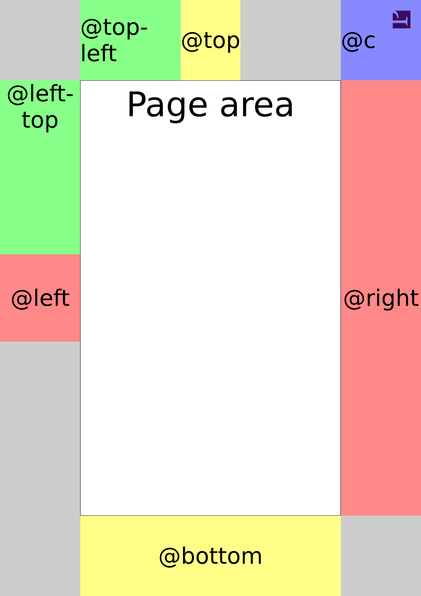
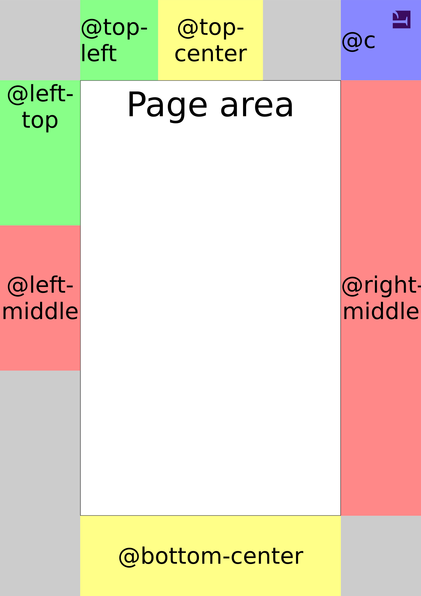
There is no @top, @bottom, @left and @right - migrating long due fixes.

diff --git a/docs/assets/samples/marginboxes.html b/docs/assets/samples/marginboxes.html
@@ -10,20 +10,20 @@
     background-color: #ccc;
     font-size: 32pt;
     font-family: sans-serif;
-    @top {
-        content: "@top";
+    @top-center {
+        content: "@top-center";
         background-color: #ff8;
     }
-    @bottom {
-        content: "@bottom";
+    @bottom-center {
+        content: "@bottom-center";
         background-color: #ff8;
     }
-    @left {
-        content: "@left";
+    @left-middle {
+        content: "@left-middle";
         background-color: #f88;
     }
-    @right {
-        content: "@right";
+    @right-middle {
+        content: "@right-middle";
         background-color: #f88;
     }
     @top-left {

diff --git a/docs/paged.md b/docs/paged.md
@@ -127,24 +127,13 @@ This figure shows the positions of some page regions placed in the page margin, 
 
 The [`@page`](css-at-rules.md#at-page) background is <span class="fig-marginboxes-lightgrey">grey</span> and the body's, i.e. the page area's background is <span class="fig-marginboxes-white">white</span>.
 
-The first four page-margin boxes, namely
-
--   `@top`,
--   `@bottom`,
--   `@left` and
--   `@right`
-
-are easy to understand and are shown in <span class="fig-marginboxes-yellow">yellow</span> and <span class="fig-marginboxes-red">red</span>.
-
-Each of these page-margin boxes has a synonym ending in `-center` or `-middle` - for instance `@top-center` is the same as `@top`, while `@left-middle` is the same as `@left`.
-
 You can place content in a page-margin box with the [`content`](css-props.md#prop-content) property.
 
 For example, you can print the current page number at the bottom of each page (see [Generated Content](gen-content.md)):
 
 ```
     @page {
-        @bottom {
+        @bottom-center {
             content: counter(page)
         }
     }
@@ -174,30 +163,6 @@ Several other page regions can also be used. The full list of page regions is sh
 </thead>
 <tbody>
 <tr>
-<td><code>@top</code></td>
-<td>center</td>
-<td>middle</td>
-<td style="background-color: #ff8">yellow</td>
-</tr>
-<tr>
-<td><code>@bottom</code></td>
-<td>center</td>
-<td>middle</td>
-<td style="background-color: #ff8">yellow</td>
-</tr>
-<tr>
-<td><code>@left</code></td>
-<td>center</td>
-<td>middle</td>
-<td style="background-color: #f88">red</td>
-</tr>
-<tr>
-<td><code>@right</code></td>
-<td>center</td>
-<td>middle</td>
-<td style="background-color: #f88">red</td>
-</tr>
-<tr>
 <td><code>@top-left</code></td>
 <td>left</td>
 <td>middle</td>
@@ -207,7 +172,7 @@ Several other page regions can also be used. The full list of page regions is sh
 <td><code>@top-center</code></td>
 <td>center</td>
 <td>middle</td>
-<td>not shown</td>
+<td style="background-color: #ff8">yellow</td>
 </tr>
 <tr>
 <td><code>@top-right</code></td>
@@ -225,7 +190,7 @@ Several other page regions can also be used. The full list of page regions is sh
 <td><code>@bottom-center</code></td>
 <td>center</td>
 <td>middle</td>
-<td>not shown</td>
+<td style="background-color: #ff8">yellow</td>
 </tr>
 <tr>
 <td><code>@bottom-right</code></td>
@@ -243,7 +208,7 @@ Several other page regions can also be used. The full list of page regions is sh
 <td><code>@left-middle</code></td>
 <td>center</td>
 <td>middle</td>
-<td>not shown</td>
+<td style="background-color: #f88">red</td>
 </tr>
 <tr>
 <td><code>@left-bottom</code></td>
@@ -261,7 +226,7 @@ Several other page regions can also be used. The full list of page regions is sh
 <td><code>@right-middle</code></td>
 <td>center</td>
 <td>middle</td>
-<td>not shown</td>
+<td style="background-color: #f88">red</td>
 </tr>
 <tr>
 <td><code>@right-bottom</code></td>
@@ -320,11 +285,11 @@ Several other page regions can also be used. The full list of page regions is sh
 </tbody>
 </table>
 
-Prince will try to create page regions of the correct sizes. If you need to create boxes of specific sizes you may need to use only a single box (eg: `@top`) and use the [`content`](css-props.md#prop-content) property to place elements with specific sizes in it.
+Prince will try to create page regions of the correct sizes. If you need to create boxes of specific sizes you may need to use only a single box (eg: `@top-center`) and use the [`content`](css-props.md#prop-content) property to place elements with specific sizes in it.
 
-Note that in the above [Page regions](#fig-marginboxes) figure, Prince leaves space for `@top-right` and `@left-bottom` boxes because their counterparts (`@top-left` and `@left-top` respectively) have been defined. This keeps the `@top` and `@left` centered along the top and side of the page respectively.
+Note that in the above [Page regions](#fig-marginboxes) figure, Prince leaves space for `@top-right` and `@left-bottom` boxes because their counterparts (`@top-left` and `@left-top` respectively) have been defined. This keeps the `@top-center` and `@left-middle` centered along the top and side of the page respectively.
 
-The page-margin boxes `@top`, `@top-left` or `@top-right` can be used to create running page headers, and the page-margin boxes `@bottom`, `@bottom-left` or `@bottom-right` are useful for page footers (see [Page Headers and Footers](cookbook.md#page-headers-and-footers)).
+The page-margin boxes `@top-center`, `@top-left` or `@top-right` can be used to create running page headers, and the page-margin boxes `@bottom-center`, `@bottom-left` or `@bottom-right` are useful for page footers (see [Page Headers and Footers](cookbook.md#page-headers-and-footers)).
 
 The page region `@prince-overlay` is a special region, overlaying all of the page area. A typical use is for creating watermarks on all pages of the document (see [Watermarks](cookbook.md#watermarks)).
 
@@ -373,10 +338,10 @@ CSS
         counter-reset: page 1
     }
     @page table-of-contents {
-        @top {
+        @top-center {
             content: "Table of Contents"
         }
-        @bottom {
+        @bottom-center {
             content: counter(page, lower-alpha)
         }
     }
@@ -386,10 +351,10 @@ CSS
         counter-reset: page 1
     }
     @page main {
-        @top {
+        @top-center {
             content: string(chapter-title)
         }
-        @bottom {
+        @bottom-center {
             content: counter(page)
         }
     }
@@ -410,7 +375,7 @@ In some documents, particularly those that are unbound such as office documents,
 
 ```
     @page {
-        @bottom {
+        @bottom-center {
             content: "Page " counter(page) " of " counter(pages)
         }
     }
@@ -512,7 +477,7 @@ CSS
 
 ```
     @page {
-        @top {
+        @top-center {
             content: string(doctitle)
         }
     }
@@ -555,7 +520,7 @@ CSS
 
 ```
     @page {
-        @top { content: element(header) }
+        @top-center { content: element(header) }
     }
     h1 { position: running(header) }
 ```
@@ -569,7 +534,7 @@ CSS
 
 ```
     @page {
-        @bottom { content: flow(footer) }
+        @bottom-center { content: flow(footer) }
     }
     footer { -prince-flow: static(footer, start) }
 ```
@@ -609,13 +574,13 @@ A title page example showing use of `@page:first`. Download the [PDF](assets/sam
     <head>
     <style>
     @page {
-        @bottom {
+        @bottom-center {
             content: counter(page)
         }
     }
     @page:first {
         margin-top: 10cm;
-        @bottom {
+        @bottom-center {
             content: normal
         }
     }
@@ -697,8 +662,8 @@ Then using this page name to apply a different [`@page`](css-at-rules.md#at-page
 
 ```css
     @page table-of-contents {
-        @top { content: "Table of Contents" }
-        @bottom {
+        @top-center { content: "Table of Contents" }
+        @bottom-center {
             content: counter(page, lower-alpha)
         }
     }
@@ -711,12 +676,12 @@ Selectors such as `:first`, `:Nth`, `:left` and `:right` also work with named pa
 
 ```css
     @page preface {
-        @bottom {
+        @bottom-center {
             content: counter(page, lower-alpha)
         }
     }
     @page preface:first {
-        @bottom {
+        @bottom-center {
             content: normal;
         }
     }
@@ -730,12 +695,12 @@ This example only works when a page name is used only once within a document, su
         -prince-page-group: start;
     }
     @page chapter {
-        @bottom {
+        @bottom-center {
             content: counter(page);
         }
     }
     @page chapter:first {
-        @bottom {
+        @bottom-center {
             content: normal;
         }
     }
@@ -777,11 +742,11 @@ This example clears the generated content used on these pages. This works becaus
 
 ```css
     @page frontmatter {
-        @bottom { content: counter(page, lower-roman); }
+        @bottom-center { content: counter(page, lower-roman); }
     }
 
     @page frontmatter:blank {
-        @bottom { content: normal; }
+        @bottom-center { content: normal; }
     }
 ```
 If chapter 1 also resets page numbering, then the page numbers will be reset on the first *content page*, i.e. a non-blank page.

diff --git a/docs/css-at-rules.md b/docs/css-at-rules.md
@@ -70,20 +70,20 @@ The initial values for <code>@page</code> styles are documented in the
 <td><code>:nth(<i>N</i>)</code></td>
 </tr>
 <tr>
-<td><code>@left</code> | <code>@left-top</code> | <code>@left-middle</code> |
+<td><code>@left-top</code> | <code>@left-middle</code> |
 <code>@left-bottom</code></td>
 <td rowspan="6"><a href="/doc/paged#page-regions">Page region</a> at-rules</td>
 </tr>
 <tr>
-<td><code>@right</code> | <code>@right-top</code> | <code>@right-middle</code> |
+<td><code>@right-top</code> | <code>@right-middle</code> |
 <code>@right-bottom</code></td>
 </tr>
 <tr>
-<td><code>@top</code> | <code>@top-left-corner</code> | <code>@top-left</code> |
+<td><code>@top-left-corner</code> | <code>@top-left</code> |
 <code>@top-center</code> | <code>@top-right</code> | <code>@top-right-corner</code></td>
 </tr>
 <tr>
-<td><code>@bottom</code> | <code>@bottom-left-corner</code> | <code>@bottom-left</code> |
+<td><code>@bottom-left-corner</code> | <code>@bottom-left</code> |
 <code>@bottom-center</code> | <code>@bottom-right</code> | <code>@bottom-right-corner</code></td>
 </tr>
 <tr>
